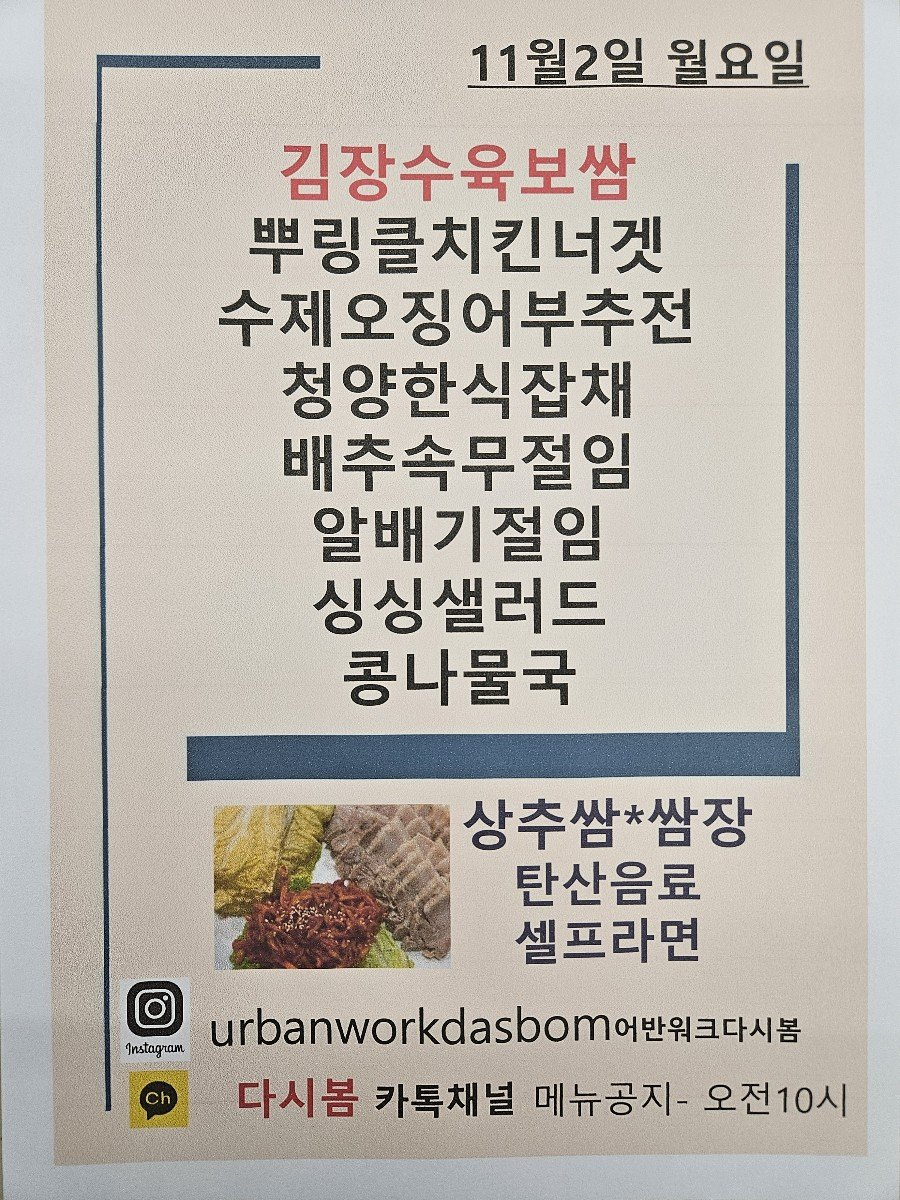
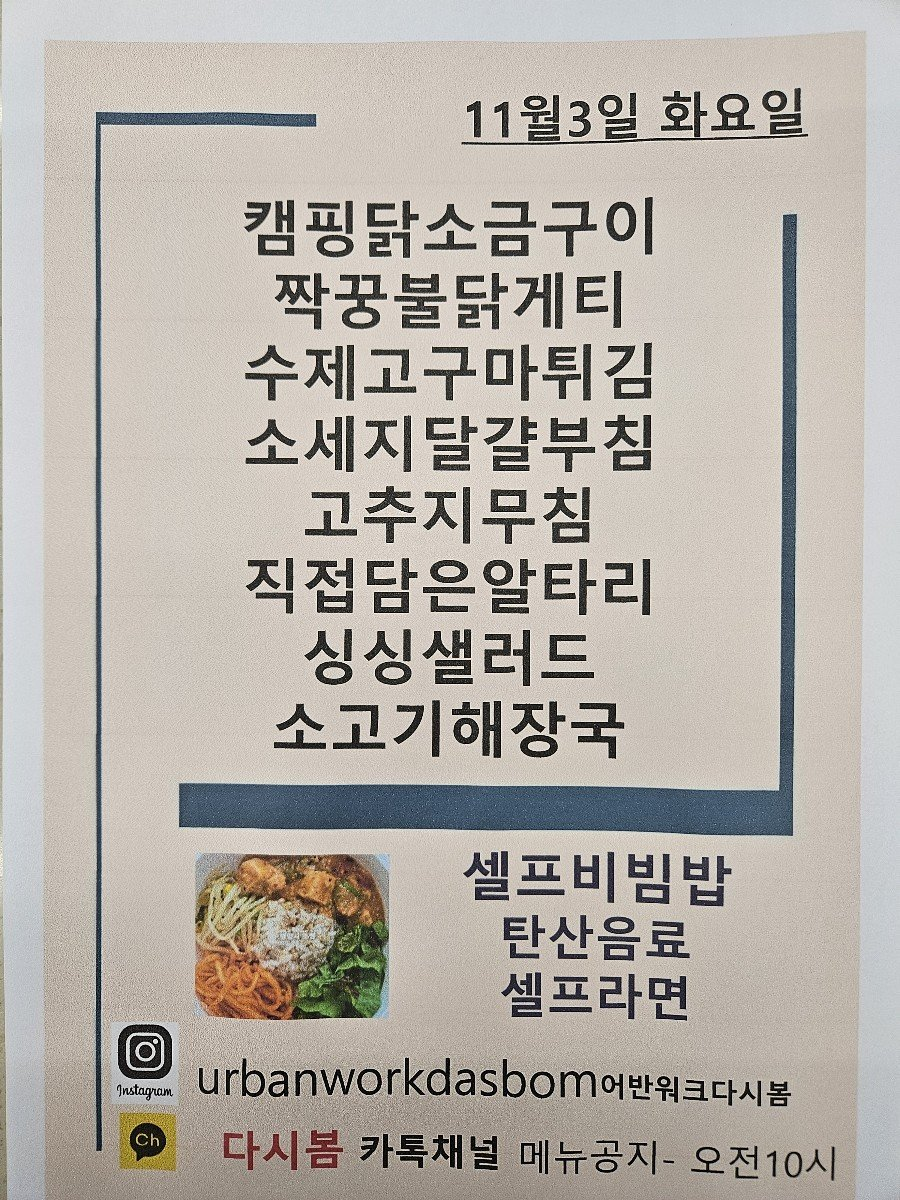
Update menu board assets

diff --git a/menu-today/index.html b/menu-today/index.html
@@ -209,7 +209,7 @@
 
     <section class="meta-bar">
       <div class="meta-card"><div class="meta-label">기준 날짜</div><div class="meta-value">2026년 11월 3일 화요일</div></div>
-      <div class="meta-card"><div class="meta-label">최종 가져온 시간</div><div class="meta-value">2026-11-03 09:47:48</div></div>
+      <div class="meta-card"><div class="meta-label">최종 가져온 시간</div><div class="meta-value">2026-11-03 10:03:55</div></div>
       <div class="meta-card"><div class="meta-label">확인 완료</div><div class="meta-value">9개 식당</div></div>
       <div class="meta-card"><div class="meta-label">준비중</div><div class="meta-value">3개 채널</div></div>
     </section>
@@ -235,7 +235,7 @@
             <div class="sub">가산 어반워크</div>
           </div>
         </div>
-        <div class="menu-inline-image"><img src="./images/dasibom.png" alt="다시 봄 식단 이미지"></div><ul><li>김장수육보쌈</li><li>수제오징어부주전</li><li>성양한식잡채</li><li>배주속무절임</li><li>알배기절임</li><li>싱싱샐러드</li><li>콩나물국</li><li>상주쌈*쌈장</li><li>수제오징어부추전</li><li>청양한식잡채</li><li>배추속무절임</li></ul>
+        <div class="menu-inline-image"><img src="./images/dasibom.png" alt="다시 봄 식단 이미지"></div><ul><li>수제고구마야채튀김</li><li>고주지무짐</li><li>시 시 AH</li><li>소고기해장국</li><li>So. 심라면</li><li>캠핑닭소금구이</li></ul>
       </article>
 
       <article class="restaurant-card">

diff --git a/guro-menu/index.html b/guro-menu/index.html
@@ -32,7 +32,7 @@
   </header>
   <section class="meta">
     <div><small>기준 날짜</small><strong>2026년 11월 3일 화요일</strong></div>
-    <div><small>최종 갱신</small><strong>2026-11-03 09:47:59</strong></div>
+    <div><small>최종 갱신</small><strong>2026-11-03 10:04:07</strong></div>
     <div><small>등록 식당</small><strong>5개</strong></div>
   </section>
   <div class="notice">공개 카카오 채널의 메뉴 이미지를 자동 수집하고 OCR로 정리합니다. 텍스트에 오타가 있을 수 있으니 식단 이미지를 함께 확인해 주세요.</div>
